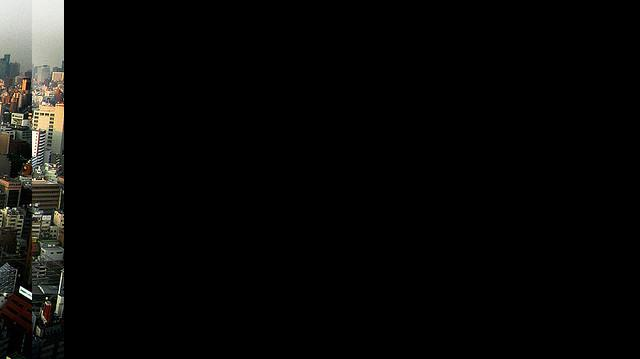
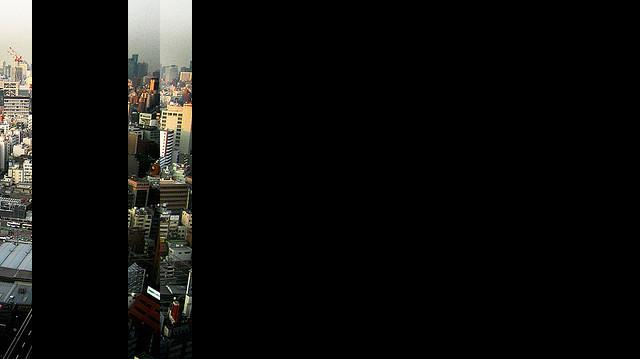
swap first strip out with neighbor of matching strip

Changed region(s): [[0.0, 0.0, 0.125, 1.0], [0.1875, 0.0, 0.3125, 0.9805], [0.1875, 0.9805, 0.25, 1.0]]

diff --git a/instagram_challenge/unscramble.py b/instagram_challenge/unscramble.py
@@ -34,6 +34,7 @@ def main():
   # Create a new image of the same size as the original
   # and copy a region into the new image
   TOLERANCE = 50
+  global NUMBER_OF_COLUMNS
   NUMBER_OF_COLUMNS = 20
   unshredded = Image.new("RGBA", image.size)
   global shred_width
@@ -66,17 +67,20 @@ def main():
 
 
 def insert_neighbor_strips(strip1, strip2, orientation, img):
-  x1, y1 = 0, 0
-  if orientation == 1:
-    # A B
-    insert_strip(strip1, img, (x1, y1))
-    insert_strip(strip2, img, (x1 + shred_width, y1))
-  else:
-    # B A
-    insert_strip(strip2, img, (x1, y1))
-    insert_strip(strip1, img, (x1 + shred_width, y1))
-
-  # insert rest of strips here
+  # swap first strip with matched strip + 1 if orientation B, otherwise swap with matched strip - 1
+    if orientation == 1:
+      # A B
+      insert_strip(strip1, img, (strip2[0] - shred_width, 0))
+      insert_strip(strip2, img, (strip2[0], 0))
+      insert_strip([strip2[0] - shred_width, 0, strip2[0], height], img, (0,0))
+    else:
+      # B A
+      insert_strip(strip1, img, (strip2[0] + shred_width, 0))
+      insert_strip(strip2, img, (strip2[0], 0))
+      insert_strip([strip2[0] + shred_width, 0, strip2[0], height], img, (0,0))
+  
+    #for shred_number in range(1, NUMBER_OF_COLUMNS):
+      # insert rest of strips here
 
 def insert_strip(strip, img, destination_point):
   #source_region = image.crop([x1, y1, x2, y2])
